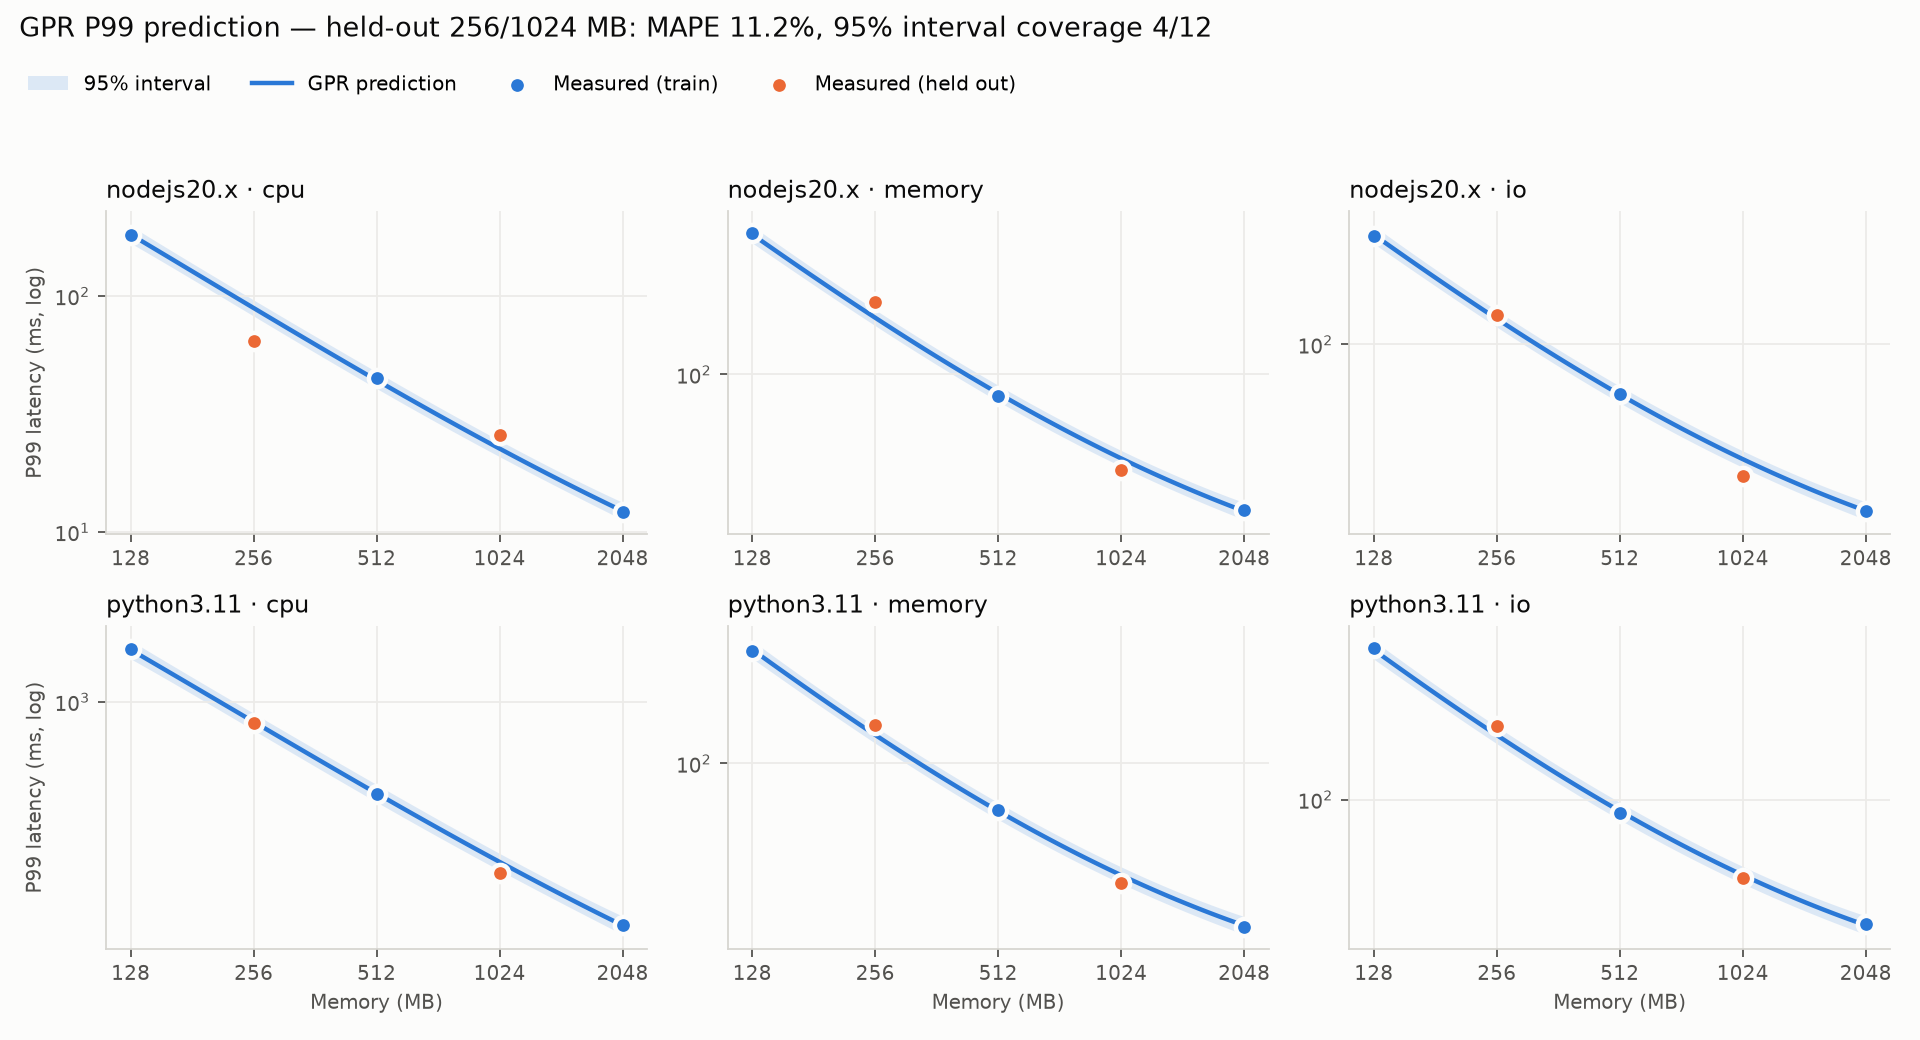
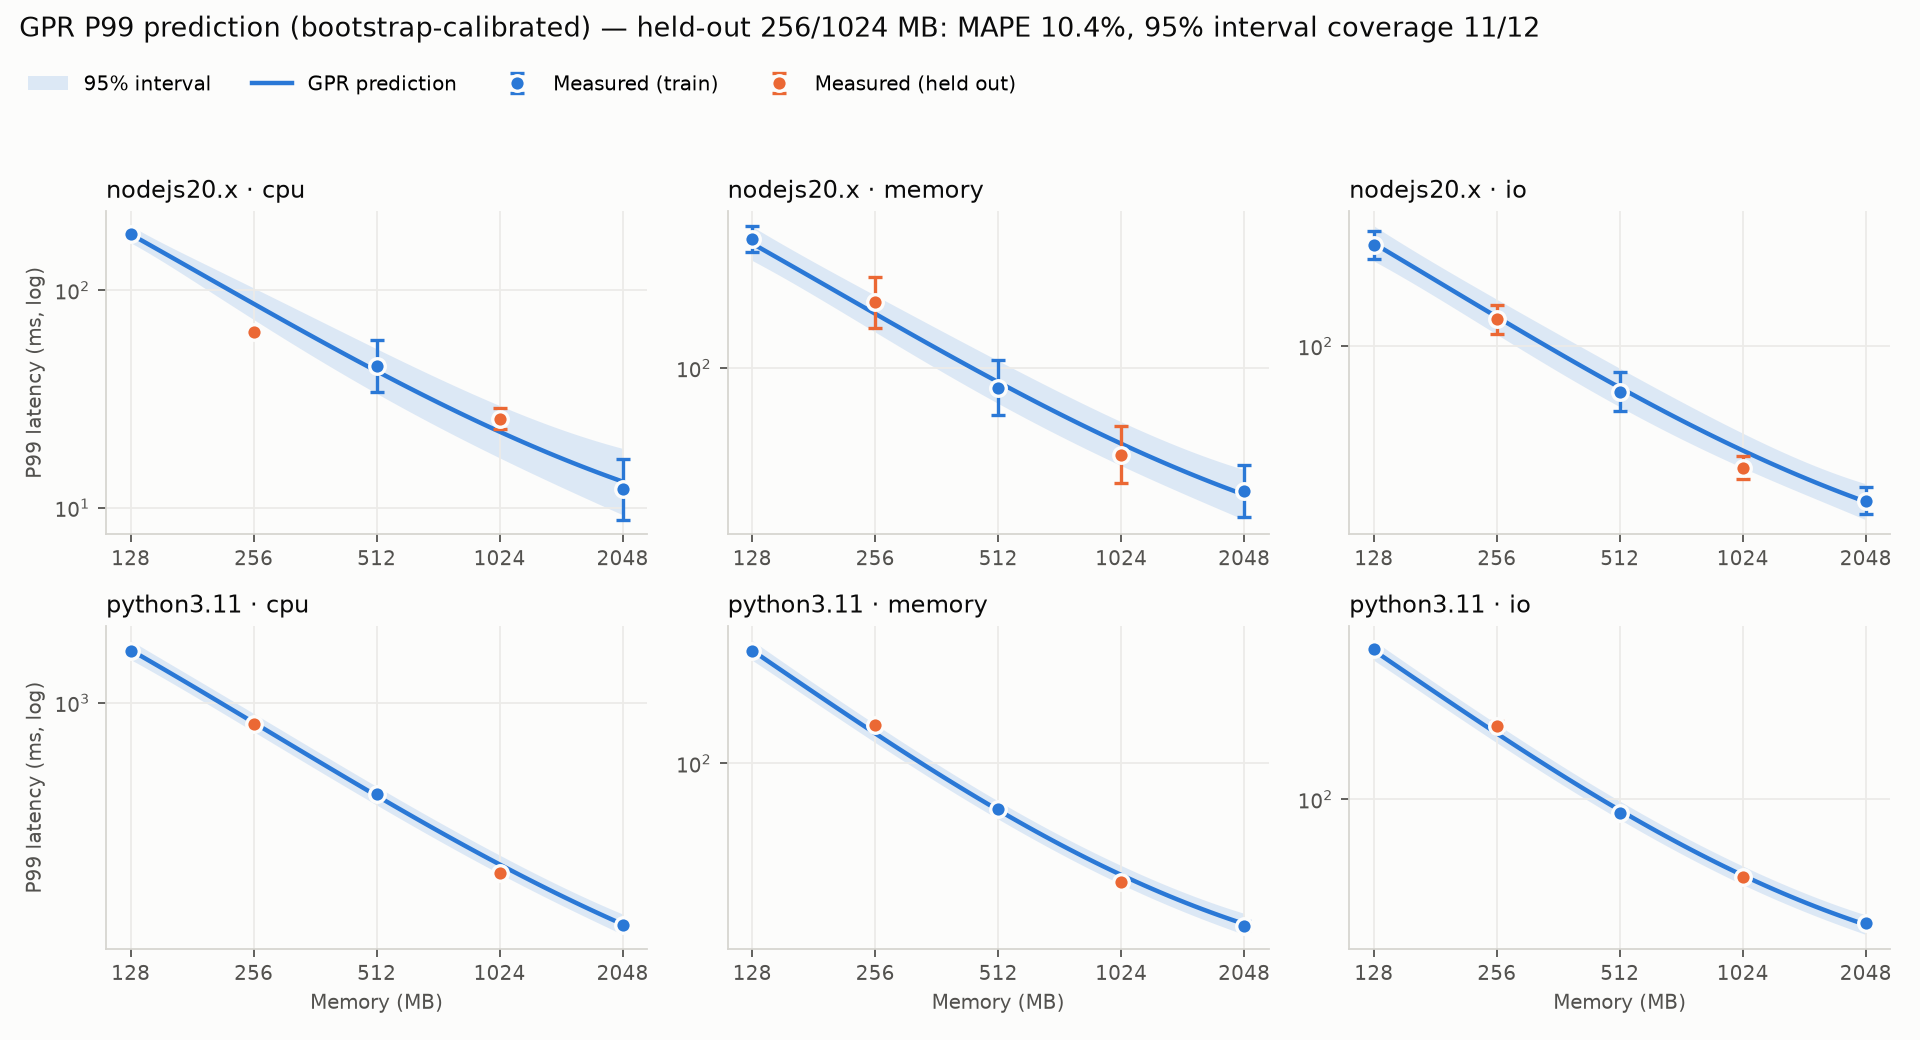
GPR v2: bootstrap-calibrated per-config noise (11/12 coverage)

diff --git a/train_gpr.py b/train_gpr.py
@@ -1,47 +1,91 @@
 # ---------------------------------------------------------------------------
-# train_gpr.py
-# First version of the GPR (Gaussian Process Regression) model.
+# train_gpr.py  (version 2: bootstrap-calibrated)
 #
 # Goal: predict the P99 (tail) latency of a configuration from its settings:
 #       runtime + workload + memory size  ->  predicted P99 + 95% interval
 #
-# Test: I hide two memory sizes (256 MB and 1024 MB) from the model, train it
-#       on the other three (128, 512, 2048), and check how close it gets to
-#       the real P99 of the hidden configs. If it is close, GPR can estimate
-#       configurations that were never measured, which is the core idea
-#       behind variance-aware placement.
+# What is new in v2:
+#   In v1 the model treated every measured P99 as an exact number and used one
+#   shared noise level for all configs. Its 95% intervals were far too narrow
+#   (only 4 of 12 hidden configs fell inside).
+#   In v2 I first measure HOW UNCERTAIN each config's P99 is, using
+#   bootstrapping (explained below), and give that to the model per config.
+#   Noisy configs (e.g. Node.js at small memory) now get wide intervals,
+#   stable ones (e.g. Python cpu) get narrow intervals. This is what makes the
+#   model "variance-aware".
 #
-# Input : results/summary.csv   (made by summarize.py, one row per config)
+# Test: hide memory sizes 256 MB and 1024 MB, train on 128/512/2048, and check
+#       how close the predictions are and whether the real values fall inside
+#       the 95% intervals.
+#
+# Input : results/raw_*.csv  (all runs, made by run_experiment.py)
 # Output: results/gpr_predictions.csv  and  results/gpr_p99_plot.png
 #
 # Run with:  python3 train_gpr.py
 # Needs:     pip install scikit-learn matplotlib
 # ---------------------------------------------------------------------------
 import csv
+import glob
 import warnings
+from collections import defaultdict
 
 import matplotlib
 matplotlib.use("Agg")                      # save the plot to a file, no window
 import matplotlib.pyplot as plt
 import numpy as np
-from sklearn.gaussian_process import GaussianProcessRegressor
 from sklearn.exceptions import ConvergenceWarning
+from sklearn.gaussian_process import GaussianProcessRegressor
 from sklearn.gaussian_process.kernels import RBF, ConstantKernel, WhiteKernel
 
 # The optimiser warns when an input turns out not to matter (its length-scale
-# hits the upper limit). That's expected here: one of the one-hot workload
-# columns is redundant. Hide the warning so the output stays readable.
+# hits the upper limit). Expected here: one of the one-hot workload columns is
+# redundant. Hide the warning so the output stays readable.
 warnings.filterwarnings("ignore", category=ConvergenceWarning)
 
 HELD_OUT_MEMORY = {256, 1024}             # memory sizes the model never sees
 RUNTIMES = ["nodejs20.x", "python3.11"]
 WORKLOADS = ["cpu", "memory", "io"]
+N_BOOT = 1000                             # number of bootstrap resamples
+rng = np.random.default_rng(42)           # fixed seed -> same result every run
 
 # ---------------------------------------------------------------------------
-# 1. Load the per-config summary
+# 1. Load all warm calls from every raw CSV, grouped by configuration
 # ---------------------------------------------------------------------------
-with open("results/summary.csv") as fh:
-    rows = list(csv.DictReader(fh))
+warm = defaultdict(list)
+for f in glob.glob("results/raw_*.csv"):
+    with open(f) as fh:
+        for r in csv.DictReader(fh):
+            # skip failed calls and cold starts (cold starts are a separate thing)
+            if r["error"] or not r["duration_ms"] or r["is_cold"] == "1":
+                continue
+            key = (r["runtime"], r["workload"], int(r["memory_mb"]))
+            warm[key].append(float(r["duration_ms"]))
+
+configs = sorted(warm)                    # list of (runtime, workload, memory)
+print(f"Loaded {sum(len(v) for v in warm.values())} warm calls "
+      f"for {len(configs)} configurations")
+
+# ---------------------------------------------------------------------------
+# 2. P99 per config + its uncertainty (bootstrapping)
+#
+# Bootstrapping: from the n measured calls of one config, draw n calls at
+# random WITH replacement (the same call can be picked twice) and compute the
+# P99 of that sample. Repeat 1,000 times. The spread of those 1,000 P99 values
+# shows how much the P99 would change if I re-ran the experiment.
+#
+# I work in log space (log of ms): latencies range from ~10 ms to ~1600 ms,
+# so logs keep slow configs from dominating, and predictions stay positive.
+# method="weibull" gives the same percentile definition as summarize.py.
+# ---------------------------------------------------------------------------
+log_p99, boot_var = [], []
+for key in configs:
+    d = np.array(warm[key])
+    log_p99.append(np.log(np.percentile(d, 99, method="weibull")))
+    samples = rng.choice(d, size=(N_BOOT, len(d)), replace=True)
+    boot = np.log(np.percentile(samples, 99, axis=1, method="weibull"))
+    boot_var.append(boot.var())            # uncertainty of this config's P99
+y = np.array(log_p99)
+boot_var = np.array(boot_var)
 
 
 def features(runtime, workload, memory_mb):
@@ -58,74 +102,77 @@ def features(runtime, workload, memory_mb):
             + [np.log2(memory_mb)])
 
 
-X = np.array([features(r["runtime"], r["workload"], int(r["memory_mb"])) for r in rows])
-
-# Target = log of P99. Latencies range from ~10 ms to ~1600 ms, so working in
-# log space stops the slow configs from dominating the fit, and keeps every
-# prediction positive when converted back to ms.
-y = np.log(np.array([float(r["p99_ms"]) for r in rows]))
-
-mem = np.array([int(r["memory_mb"]) for r in rows])
+X = np.array([features(*k) for k in configs])
+mem = np.array([k[2] for k in configs])
 test = np.isin(mem, list(HELD_OUT_MEMORY))      # True for 256 / 1024 MB rows
 train = ~test
 
 # ---------------------------------------------------------------------------
-# 2. Build and train the GPR
+# 3. Build and train the GPR
 # ---------------------------------------------------------------------------
 # Kernel = how the model decides which configs are "similar":
 #   ConstantKernel * RBF : smooth relationship; one length-scale per input
 #                          (ARD), so the model learns which input matters most
-#   WhiteKernel          : allows for measurement noise
+#   WhiteKernel          : small extra noise for anything the smooth curve
+#                          can't explain (e.g. sudden jumps between tiers)
+# alpha = per-config bootstrap variance. This is the key change in v2: each
+#         training point tells the model how much it can be trusted.
 kernel = (ConstantKernel(1.0, (1e-2, 1e2))
           * RBF(length_scale=np.ones(X.shape[1]), length_scale_bounds=(1e-2, 1e2))
-          + WhiteKernel(noise_level=1e-2, noise_level_bounds=(1e-5, 1e0)))
+          + WhiteKernel(noise_level=1e-3, noise_level_bounds=(1e-5, 1e0)))
 
-# normalize_y: centre the targets first; n_restarts: try several starting
-# points so the optimiser doesn't get stuck in a bad solution.
-gpr = GaussianProcessRegressor(kernel=kernel, normalize_y=True,
-                               n_restarts_optimizer=10, random_state=42)
+gpr = GaussianProcessRegressor(kernel=kernel, alpha=boot_var[train],
+                               normalize_y=True, n_restarts_optimizer=10,
+                               random_state=42)
 gpr.fit(X[train], y[train])
 print("Learned kernel:", gpr.kernel_)
 
 # ---------------------------------------------------------------------------
-# 3. Predict the hidden configs and measure the error
+# 4. Predict and evaluate
 # ---------------------------------------------------------------------------
-mu, sd = gpr.predict(X, return_std=True)        # mean and std, in log space
-pred = np.exp(mu)                               # back to milliseconds
-lo, hi = np.exp(mu - 1.96 * sd), np.exp(mu + 1.96 * sd)   # 95% interval
+mu, sd = gpr.predict(X, return_std=True)        # model mean + model uncertainty
+
+# The real P99 I compare against is itself a noisy measurement, so the
+# interval for it = model uncertainty + that config's own bootstrap noise.
+total_sd = np.sqrt(sd ** 2 + boot_var)
+pred = np.exp(mu)                                         # back to ms
+lo, hi = np.exp(mu - 1.96 * total_sd), np.exp(mu + 1.96 * total_sd)
 actual = np.exp(y)
 
 # MAPE = mean absolute percentage error (average % the prediction is off)
 mape = np.mean(np.abs(pred[test] - actual[test]) / actual[test]) * 100
-# Coverage = share of real values that fall inside the 95% interval.
-# Ideally close to 95%.
+# Coverage = share of real values inside the 95% interval (ideal ~95%)
 inside = (actual[test] >= lo[test]) & (actual[test] <= hi[test])
 print(f"\nHeld-out configs (memory {sorted(HELD_OUT_MEMORY)} MB): {test.sum()}")
 print(f"MAPE on held-out P99     : {mape:.1f} %")
 print(f"95% interval coverage    : {inside.sum()}/{test.sum()} "
       f"({inside.mean() * 100:.0f} %)\n")
 
-print(f"{'runtime':<12}{'workload':<8}{'mem':>6}{'actual':>10}{'pred':>10}{'95% interval':>22}{'err%':>7}")
+# boot% = how much this config's own P99 wobbles (bootstrap std, as a %)
+print(f"{'runtime':<12}{'workload':<8}{'mem':>6}{'actual':>10}{'pred':>10}"
+      f"{'95% interval':>22}{'err%':>7}{'boot%':>7}{'in?':>5}")
 with open("results/gpr_predictions.csv", "w", newline="") as fh:
     w = csv.writer(fh)
     w.writerow(["runtime", "workload", "memory_mb", "split", "actual_p99_ms",
-                "pred_p99_ms", "ci95_low_ms", "ci95_high_ms", "abs_err_pct"])
-    for i, r in enumerate(rows):
+                "pred_p99_ms", "ci95_low_ms", "ci95_high_ms", "abs_err_pct",
+                "boot_std_pct", "inside_ci"])
+    for i, (rt, wl, m) in enumerate(configs):
         err = abs(pred[i] - actual[i]) / actual[i] * 100
-        split = "test" if test[i] else "train"
-        w.writerow([r["runtime"], r["workload"], r["memory_mb"], split,
-                    round(actual[i], 2), round(pred[i], 2),
-                    round(lo[i], 2), round(hi[i], 2), round(err, 1)])
+        bpct = np.sqrt(boot_var[i]) * 100     # log-space std ~= relative %
+        ok = lo[i] <= actual[i] <= hi[i]
+        w.writerow([rt, wl, m, "test" if test[i] else "train",
+                    round(actual[i], 2), round(pred[i], 2), round(lo[i], 2),
+                    round(hi[i], 2), round(err, 1), round(bpct, 1), int(ok)])
         if test[i]:
-            print(f"{r['runtime']:<12}{r['workload']:<8}{r['memory_mb']:>6}"
-                  f"{actual[i]:>10.1f}{pred[i]:>10.1f}"
-                  f"{f'[{lo[i]:.1f}, {hi[i]:.1f}]':>22}{err:>7.1f}")
+            print(f"{rt:<12}{wl:<8}{m:>6}{actual[i]:>10.1f}{pred[i]:>10.1f}"
+                  f"{f'[{lo[i]:.1f}, {hi[i]:.1f}]':>22}{err:>7.1f}{bpct:>7.1f}"
+                  f"{'yes' if ok else 'NO':>5}")
 
 # ---------------------------------------------------------------------------
-# 4. Plot: one small chart per runtime x workload
-#    line + band = model prediction with 95% interval (across all memory sizes)
-#    blue dots   = configs the model was trained on
-#    orange dots = hidden configs (the real test)
+# 5. Plot: one small chart per runtime x workload
+#    line + band = model prediction with 95% interval across all memory sizes
+#    dots + whiskers = measured P99 with its own bootstrap 95% range
+#    blue = trained on, orange = hidden from the model (the real test)
 # ---------------------------------------------------------------------------
 BLUE, ORANGE, INK, MUTED = "#2a78d6", "#eb6834", "#0b0b0b", "#52514e"
 grid_mem = np.logspace(np.log2(128), np.log2(2048), 60, base=2)
@@ -141,11 +188,14 @@ for ri, rt in enumerate(RUNTIMES):
                         color=BLUE, alpha=0.15, linewidth=0, label="95% interval")
         ax.plot(grid_mem, np.exp(gm), color=BLUE, linewidth=2, label="GPR prediction")
 
-        sel = np.array([(r["runtime"] == rt and r["workload"] == wl) for r in rows])
-        ax.scatter(mem[sel & train], actual[sel & train], s=60, color=BLUE,
-                   edgecolor="#fcfcfb", linewidth=2, zorder=3, label="Measured (train)")
-        ax.scatter(mem[sel & test], actual[sel & test], s=60, color=ORANGE,
-                   edgecolor="#fcfcfb", linewidth=2, zorder=3, label="Measured (held out)")
+        for split, color, label in [(train, BLUE, "Measured (train)"),
+                                    (test, ORANGE, "Measured (held out)")]:
+            sel = np.array([(k[0] == rt and k[1] == wl) for k in configs]) & split
+            yerr = [actual[sel] - np.exp(y[sel] - 1.96 * np.sqrt(boot_var[sel])),
+                    np.exp(y[sel] + 1.96 * np.sqrt(boot_var[sel])) - actual[sel]]
+            ax.errorbar(mem[sel], actual[sel], yerr=yerr, fmt="o", ms=7,
+                        color=color, mec="#fcfcfb", mew=1.5, elinewidth=1.5,
+                        capsize=3, zorder=3, label=label)
 
         ax.set_xscale("log", base=2)
         ax.set_yscale("log")
@@ -165,8 +215,8 @@ for ri, rt in enumerate(RUNTIMES):
             ax.set_xlabel("Memory (MB)", color=MUTED, fontsize=9)
 
 handles, labels = axes[0, 0].get_legend_handles_labels()
-fig.suptitle(f"GPR P99 prediction — held-out 256/1024 MB: MAPE {mape:.1f}%, "
-             f"95% interval coverage {inside.sum()}/{test.sum()}",
+fig.suptitle(f"GPR P99 prediction (bootstrap-calibrated) — held-out 256/1024 MB: "
+             f"MAPE {mape:.1f}%, 95% interval coverage {inside.sum()}/{test.sum()}",
              x=0.01, y=0.985, ha="left", fontsize=12, color=INK)
 fig.legend(handles, labels, loc="upper left", bbox_to_anchor=(0.005, 0.945),
            ncol=4, frameon=False, fontsize=9)
